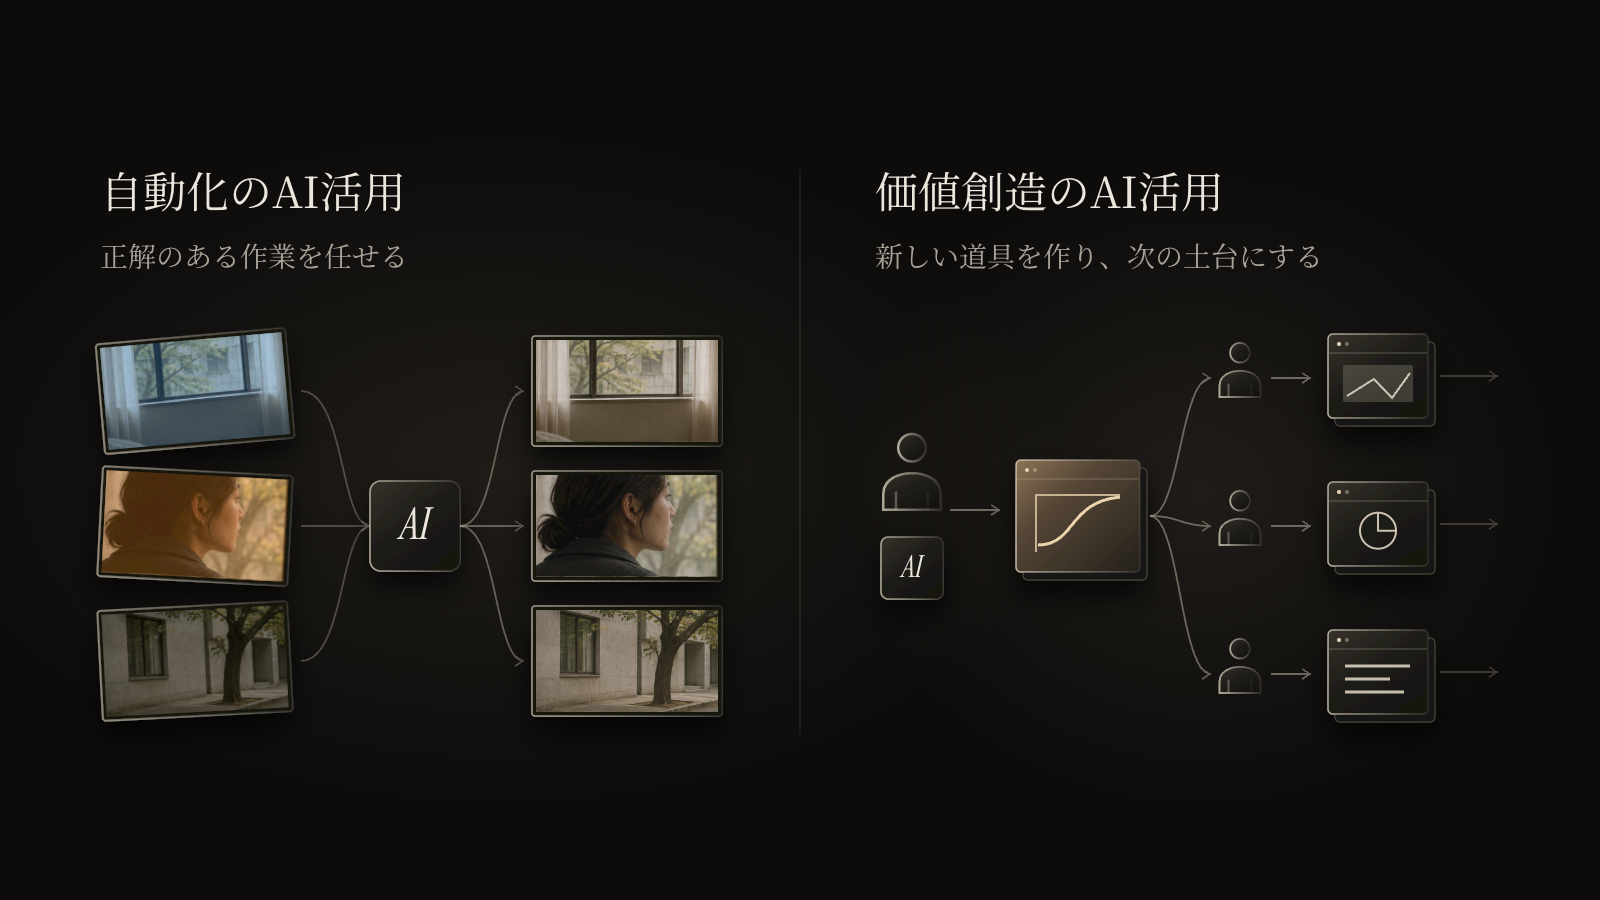
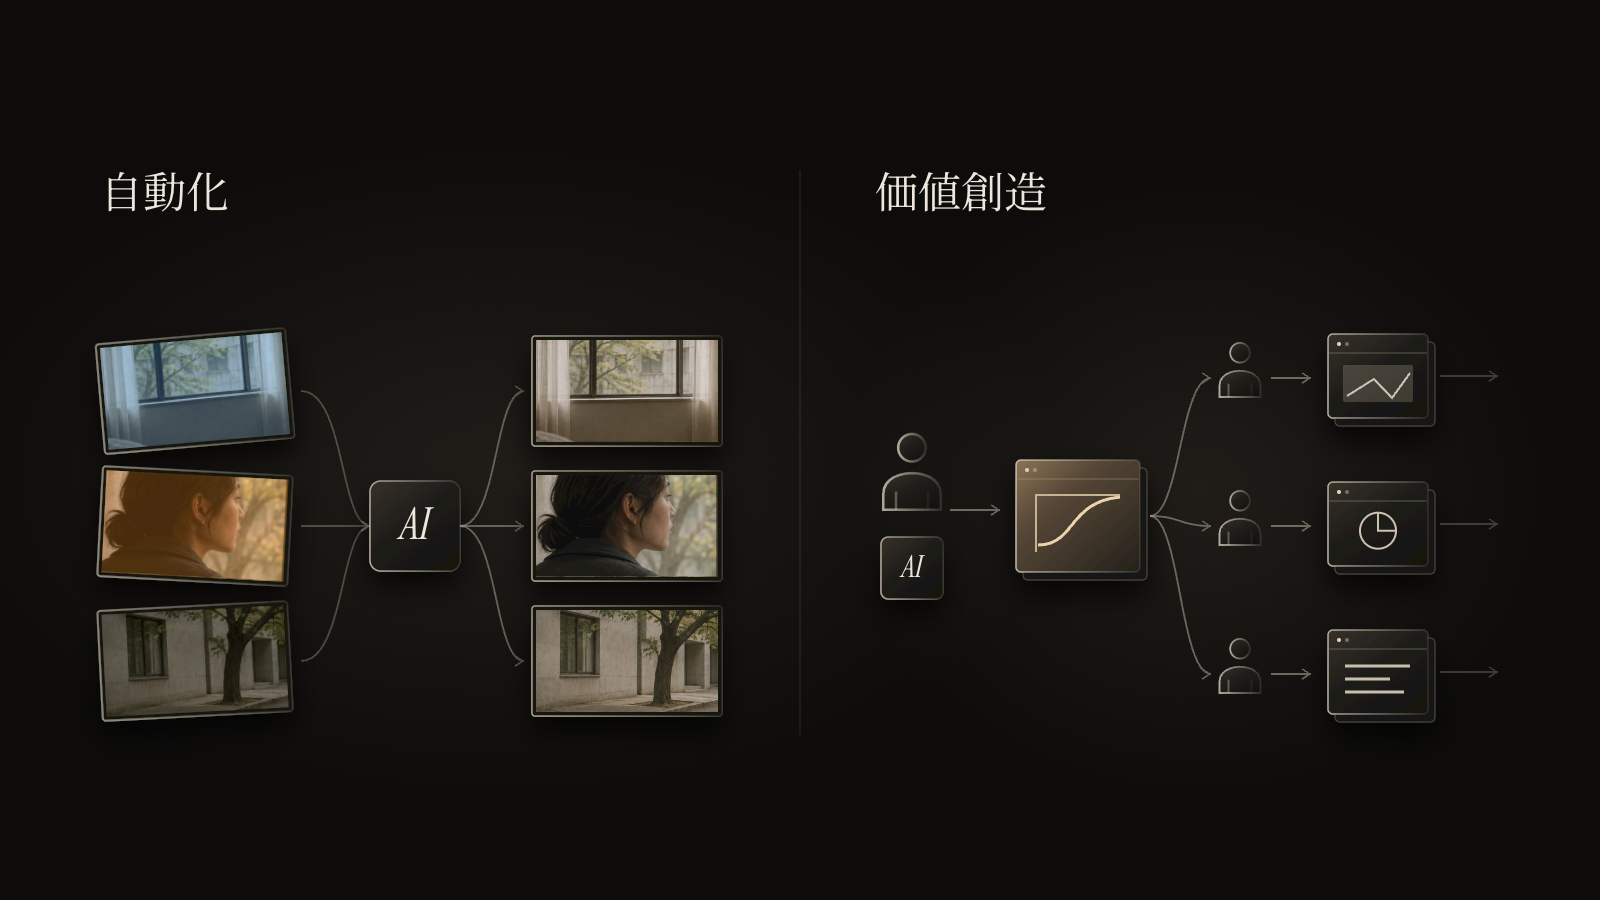
fix(notes): 図解の見出しを簡潔にし説明行を省く

diff --git a/docs/notes/ai-thoughts-thumbnail.md b/docs/notes/ai-thoughts-thumbnail.md
@@ -2,30 +2,26 @@
 
 対象: [Notion IB_ノート](https://app.notion.com/p/41f13ee3141a81b2ab01eefc4eb8c5ab)、slug `ai-thoughts`。
 
-## 図と候補
+## 採用する図
 
 第2章「二つの使い方」を直接図示する。左は色・明るさが異なる3カットがAIを通って揃う流れ。
 右は人とAIが一つの道具を作り、それを他の人が使って別の制作物を生む流れ。
 記事タイトル、製品名、作品名は画像に入れない。
 
-| 案 | 文字 | 推奨 |
-| --- | --- | --- |
-| 1 | 「自動化のAI活用」「価値創造のAI活用」の見出しだけ | 余白と簡潔さを優先 |
-| 2 | 見出しに「正解のある作業を任せる」「新しい道具を作り、次の土台にする」を追加 | 推奨。小さなカードでも、右の道具が次の制作の土台になる意味を明示できる |
-
-両案1600×900 PNG。制作側の推奨であり、本人の目視採用は未了。
-リポジトリに収録する画像は案2の `public/notes/thumbnails/ai-thoughts-diagram.png` のみ。
-候補、SVG、再描画スクリプト、写真素材、カード確認画像、検証ログは
-`~/tmp/hp-thumb-ai-thoughts/v3/` に保存する。
+見出しは「自動化」「価値創造」。見出しの下に説明は付けない。
+図、色、配置、書体、見出し位置は案1を維持し、1600×900 PNGで収録する。
+参照先は `public/notes/thumbnails/ai-thoughts-diagram.png`。
+画像、SVG、再描画スクリプト、カード確認画像、検証ログは
+`~/tmp/hp-thumb-ai-thoughts/v4/` に保存する。写真素材は `../v3/film-source.png` を再利用する。
 
 ## 制作方法
 
-- 見出し、説明、人物、汎用的な道具、矢印、配置をSVGコードで描画し、ChromeでPNG化する。
+- 見出し、人物、汎用的な道具、矢印、配置をSVGコードで描画し、ChromeでPNG化する。
 - 書体は実サイトのNoto Serif JP、英字AIはInstrument Serifのイタリック。色は墨色・アイボリーを基調とする。
 - 写真素材だけCodex内蔵image_genで生成。匿名の室内・人物・街路の3ショットで、文字や既存作品を含めない。
 - 同じ素材にSVGの色変換を施して入力のばらつきを表現し、出力には共通の元の色調を使う。
 - 柔らかい局所光、薄い面の重なり、細い輪郭、控えめな粒子をコードで加える。道具一つに琥珀色を置く。
-- `render.cjs` はローカルHPから書体を読み、2案を同じ図の構造で書き出す。画像生成に文字は描かせない。
+- `render.cjs` はローカルHPから書体を読み、採用する1枚を書き出す。画像生成に文字は描かせない。
 
 ## 表示経路と確認範囲
 
@@ -33,8 +29,8 @@
 - 一覧は既存の `src/app/page.tsx` のカードを使い、記事タイトルはHTMLで表示する。
 - 公開された対象記事のOGP・Twitter画像は `src/app/notes/[slug]/page.tsx` が同じ対応表から取得する。
 - 前回のOGP配線は保持。採番、本文、公開条件、サイトのコピーは変更しない。
-- 記事が非公開のため、カード確認では実際のローカルHPのカードDOMを複製し、ブラウザ内だけで対象記事と候補を差し込む。
-- `notes-preview-{1,2}-desktop.png` がNotes一覧での比較。モバイル版と単独カード画像も同じ場所に保存する。
+- 記事が非公開のため、カード確認では実際のローカルHPのカードDOMを複製し、ブラウザ内だけで対象記事と採用画像を差し込む。
+- `notes-preview-1-desktop.png` がNotes一覧での確認画像。モバイル版と単独カード画像も同じ場所に保存する。
 - 撮影時だけ固定ヘッダーとチャットボタンを非表示にする。実装や公開状態の変更ではない。
 
 ## NOTE番号の調査
@@ -60,12 +56,14 @@
 
 ## 検証結果
 
-- `pnpm build` / `pnpm typecheck`: 成功。
-- `pnpm lint`: エラー0。既存の予約画面2か所の警告のみ。
-- `home-notes.test.ts` / `home-page.test.tsx` / `fetch-note.test.ts`: 3ファイル13テスト成功。
-- 両案1600×900。案2とリポジトリ画像のSHA-256一致、ローカル配信HTTP 200と配信バイト一致を確認。
-- 幅1440pxでカード幅642px・2列、幅390pxで342px・1列。4表示とも横はみ出しとページエラーなし。
+- 画像は1600×900。案1との画素差分は見出し領域だけで、それ以外は完全一致。
+- 確認用画像、リポジトリ画像、ローカルHTTP 200の配信バイトが一致。
+- 幅1440pxでカード幅約642px・2列、幅390pxで342px・1列。横はみ出しとページエラーなし。
 - 記事はローカルでも非公開表示、`noindex, nofollow`、OGP画像なし。公開後OGPの実配信は未検証。
-- 確認用サーバーは `http://127.0.0.1:41324`。開発時PID 94627、最終ビルド確認時PID 95431。
-  ログは確認用フォルダ内。撮影終了後に停止済み。検証用シンボリックリンクも撤去済み。
-- `pnpm repo:hygiene -- --strict`: 成功。置き換え対象だった未変更の旧作業領域は `ws done` で整理済み。
+- アプリのコードと対応表は変更せず、直前のコミットで成功したビルドをローカル表示に使用。
+  画像と制作メモだけの変更のため、build・lint・typecheck・unit testは再実行していない。
+- 確認用サーバーは `http://127.0.0.1:41324`。ログは `v4/server.log`、PIDは `v4/server-process.txt`。
+  撮影終了後に停止済み。検証用シンボリックリンクも撤去済み。
+- 画像照合の詳細は `v4/image-verification.json`、カード確認は `v4/preview-results.json`。
+- `pnpm repo:hygiene -- --strict` は、この依頼の起動用worktree `c2o-20261122-210423-6db0` が残っているため不合格。
+  `ws done` は `running_process` / `open_handles` により保持した。依頼終了後の `ws done` で整理する。
